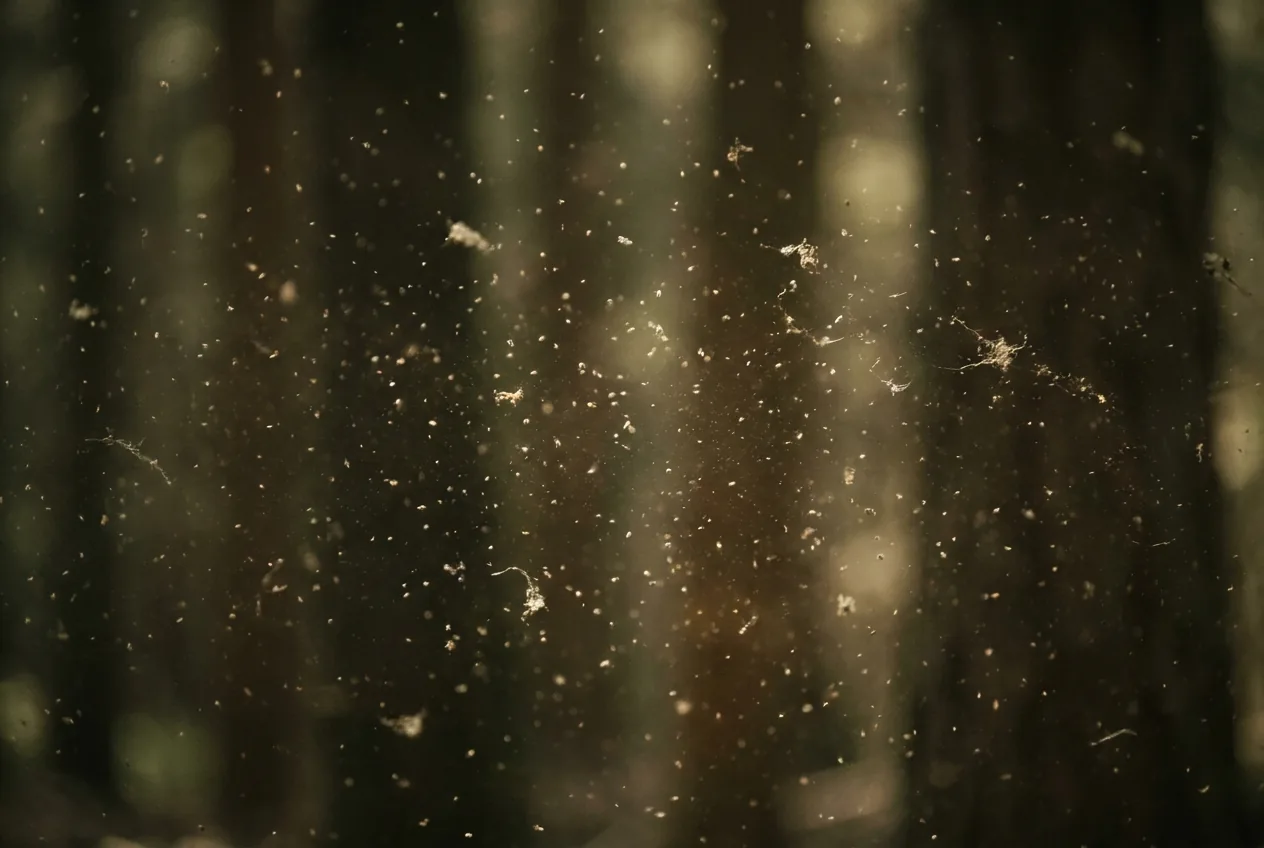
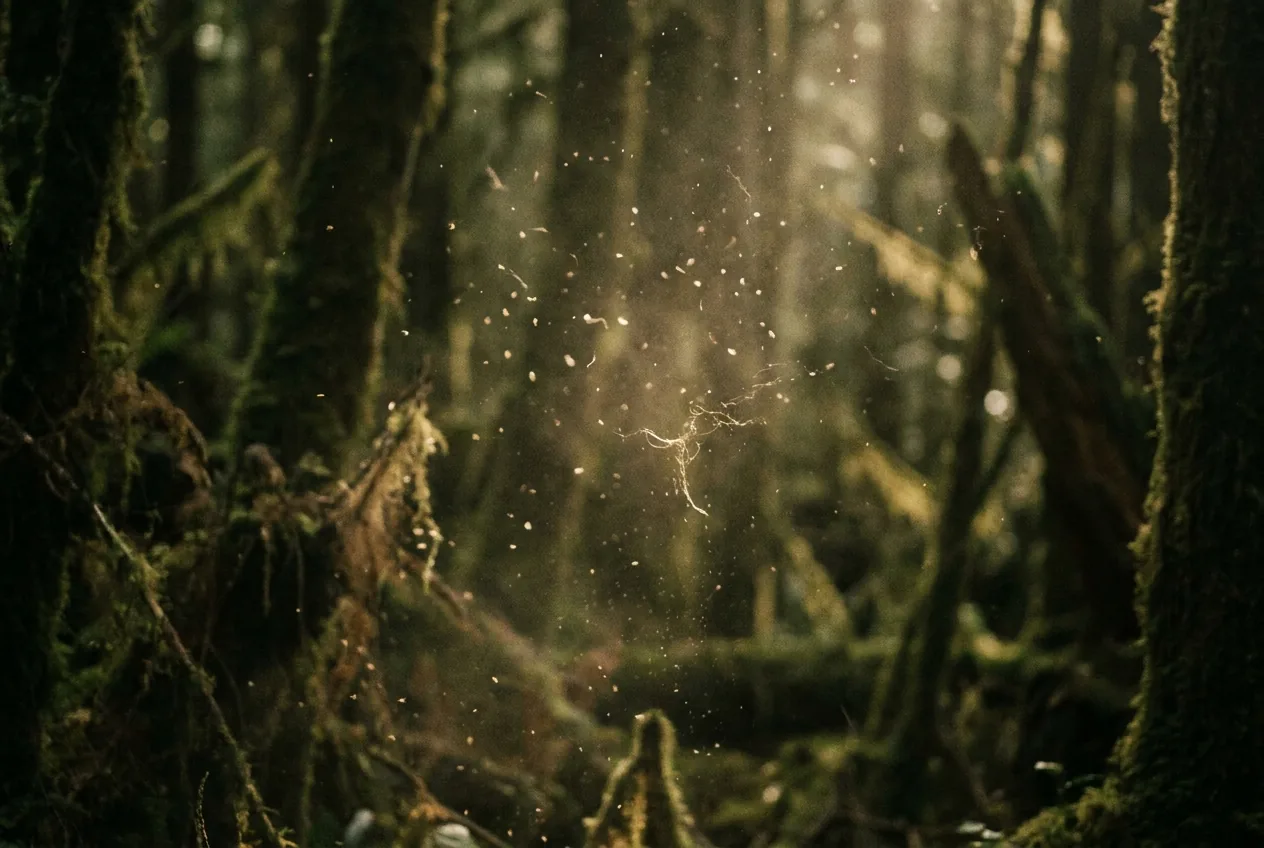
Complete the kills set: 48 images, three sets of sixteen
Both featureless-by-design frames survived without an anchor. The Quaternary
whiteout has structure from spindrift alone, and the Cretaceous - the only frame
in the project depicting a dated event - avoided looking like a video game
because the scorching magnolia and palm silhouettes in the foreground date it.

Two reworks, the same failure twice: a correct atmosphere dressed in modern
vegetation. The Triassic had twiggy woody shrubs, which is angiosperm
architecture 100 million years early. The Jurassic came back as a European
spruce plantation, drooping needle sprays and all.

Both fixed by naming the wrong thing as specifically as the right one. A generic
ban on modern trees had already failed; THESE ARE NOT SPRUCE, FIR OR PINE, no
drooping needled twigs, no Christmas-tree shape produced actual araucaria with
stiff blunt scale-leaved boughs. Stripping the Triassic vegetation entirely also
improved the image, since the dust devil no longer competes with anything.

Narrowed an over-broad ban from the previous commit. I had blocked moss and
lichen set-wide after the Devonian came back looking like a temperate
rainforest, but both existed by the Devonian - bryophytes go back to the
Ordovician. Only the modern rainforest gestalt is banned now.

Also switched the Devonian pick back to the mossy version on the same grounds.

diff --git a/scene_prompts.py b/scene_prompts.py
@@ -527,18 +527,40 @@ the immediate foreground. The sun a hard pale disc barely visible through it."""
 "triassic": dict(
     cap="Thin hot air over cracked mud. Sea level here feels like 4,500 metres.",
     scene="""
-THE AIR IS THIN AND HOT AND VISIBLY MOVING. Heavy heat shimmer rising off a floor \
-of cracked pale mud, distorting everything above it into a wavering blur. Fine \
-dust lifting in a small spiralling dust devil in the middle distance. The light \
-is flat, washed out and dusty. Dead, dry and short of breath."""),
+THE AIR IS THIN AND HOT AND VISIBLY MOVING, AND THE GROUND IS BARE.
+
+Heavy heat shimmer rising off a floor of cracked pale mud in curtains, distorting \
+everything above it into a wavering blur. A small spiralling dust devil lifting \
+fine pale dust in the middle distance, with a clear twisting column. The light is \
+flat, washed out and dusty.
+
+THE GROUND IS COMPLETELY BARE — cracked mud plates, grit and scattered stones, \
+and nothing growing anywhere in the frame. No bushes, no shrubs, no twigs, no \
+scrub, no dry brush, no branching woody plants of any kind. Any vegetation would \
+be wrong here: flowering plants do not exist yet and a twiggy shrub is an \
+angiosperm shape. Empty ground, moving air, nothing else. Dead, dry and short of \
+breath."""),
 
 "jurassic": dict(
     cap="Fog between the trunks. The forest is full and none of it is edible.",
     scene="""
-THE AIR IS DENSE WHITE FOG. Thick humid fog packed between dark straight conifer \
-trunks, reducing everything beyond a few metres to grey silhouettes and swallowing \
-the ground entirely. Moisture beading on bark and fern fronds in the immediate \
-foreground. Close, muffled, disorienting, and something could be standing in it."""),
+THE AIR IS DENSE WHITE FOG AND THE FOG IS THE ONLY SUBJECT.
+
+Thick humid fog packed between trees, so heavy that everything beyond a few \
+metres dissolves and the ground disappears entirely. Visible layers and shafts \
+where light rakes through the vapour. Droplets suspended in the air, catching the \
+light.
+
+THE TREES ARE FLAT DARK SILHOUETTES AND NOTHING MORE. Reduce them to plain \
+vertical shapes with no visible bark texture, no needled branchlets, no drooping \
+sprays, no recognisable foliage. THESE ARE NOT SPRUCE, FIR OR PINE — no drooping \
+needled twigs, no Christmas-tree shape, no plantation forest. Where any foliage \
+edge shows at all it is a stiff blunt scale-leaved araucaria bough held out \
+straight, never a soft drooping needle spray.
+
+No fern understory, no undergrowth, no visible ground plants — the fog has \
+swallowed the floor. Close, muffled, disorienting, and something could be \
+standing in it."""),
 
 "cretaceous": dict(
     cap="Chicxulub. Ejecta re-entering, and the sky becomes a broiler.",
@@ -577,8 +599,8 @@ off the drifts. Grey-white, featureless, and violently cold."""),
 # The kills set shares one negative list — the failure mode there is a figure
 # appearing in frame, not the wrong organism.
 KILLS_NEVER = ("no people, no animals, no creatures, no faces, no skulls, no bones, no corpses, "
-               "no vehicles, no machines, no campfire ring, no tents, no moss, no lichen, "
-               "no hanging epiphytes, no beard lichen, no temperate rainforest")
+               "no vehicles, no machines, no campfire ring, no tents, "
+               "no beard lichen, no hanging epiphyte curtains, no modern temperate rainforest")
 
 
 def build(kind: str, slug: str) -> str:
